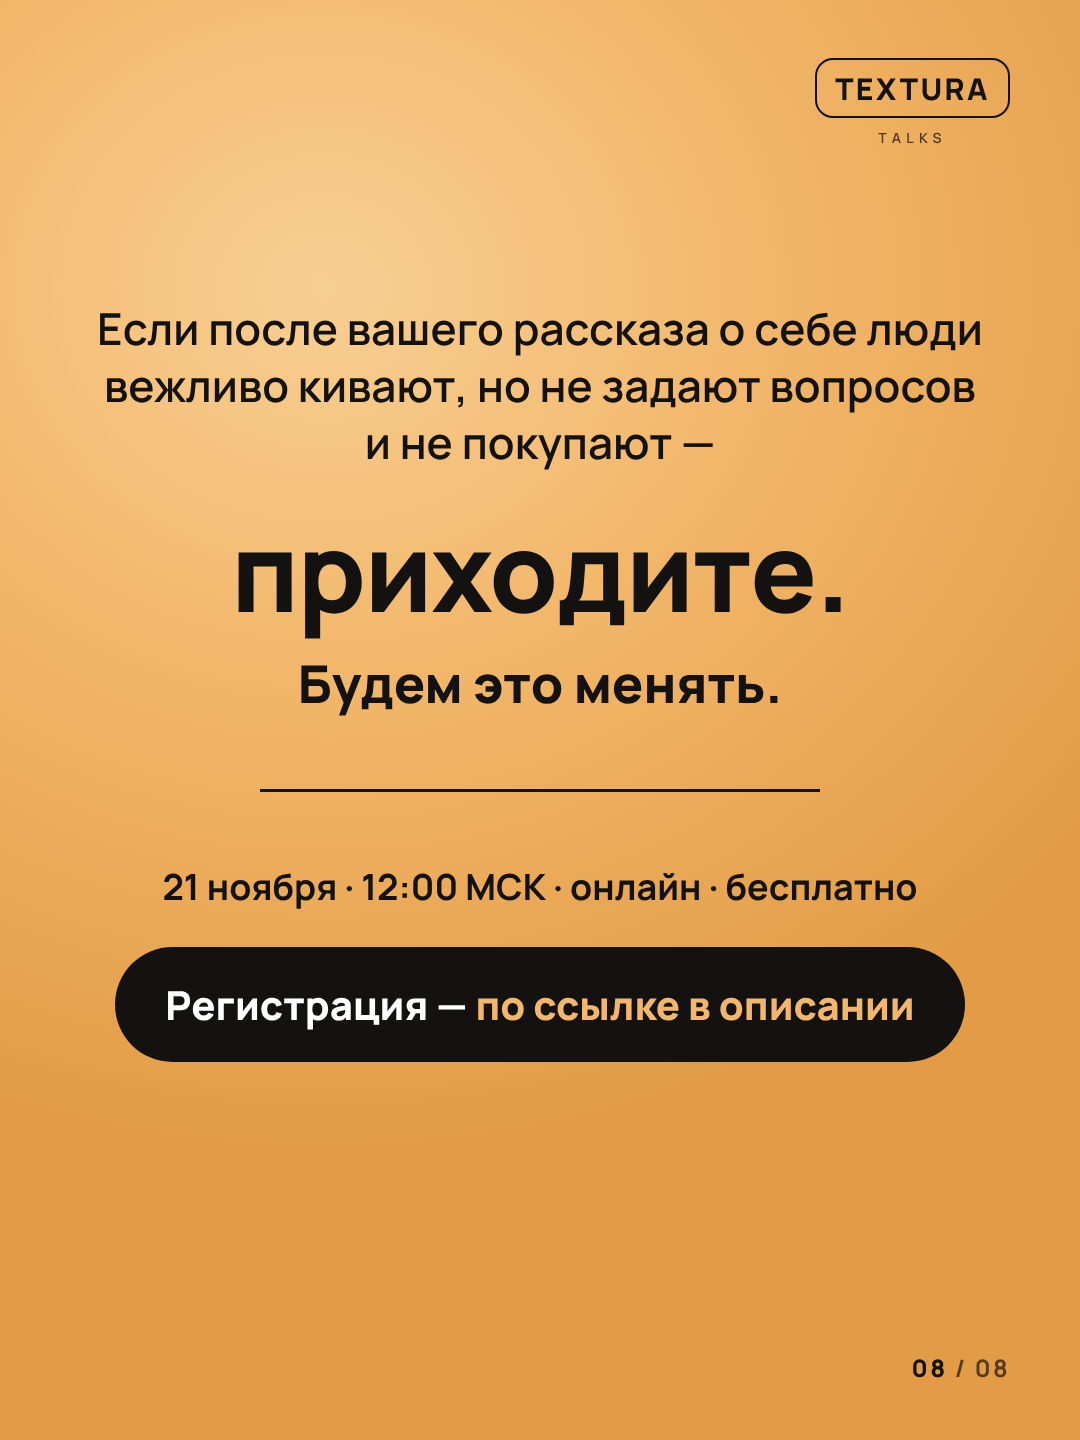
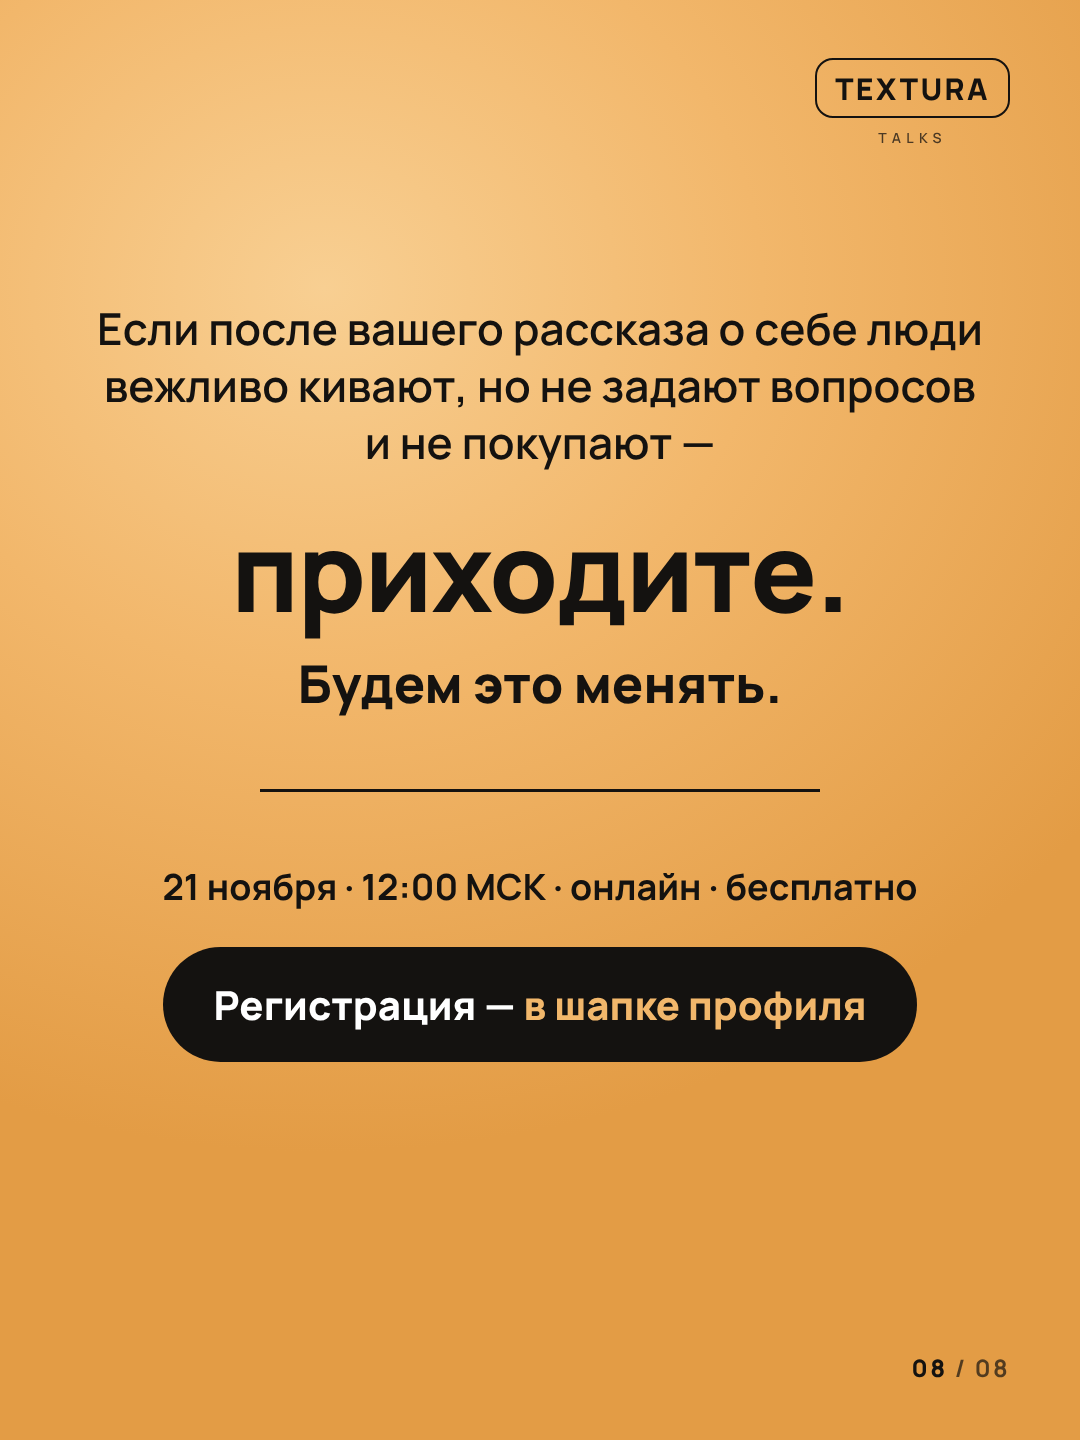
Workshop carousel: registration via profile link
Claude-Session: https://claude.ai/code/session_01EUhV7va23MNh7ydDpeuyX7

Changed region(s): [[0.0917, 0.6562, 0.5806, 0.75], [0.6417, 0.6562, 0.9167, 0.75]]

diff --git a/textura-carousel/workshop.html b/textura-carousel/workshop.html
@@ -169,6 +169,6 @@
 <p style="font-weight:800; font-size:52px; margin-top:20px;">Будем это менять.</p>
 <div style="width:560px; height:3px; background:#141210; margin:70px auto;"></div>
 <p style="font-weight:700; font-size:36px;">21 ноября · 12:00 МСК · онлайн · бесплатно</p>
-<div style="margin-top:36px; display:inline-block; white-space:nowrap; background:#141210; color:#fff; border-radius:80px; padding:30px 50px; font-weight:800; font-size:40px;">Регистрация — <span style="color:var(--accent);">по ссылке в описании</span></div>
+<div style="margin-top:36px; display:inline-block; white-space:nowrap; background:#141210; color:#fff; border-radius:80px; padding:30px 50px; font-weight:800; font-size:40px;">Регистрация — <span style="color:var(--accent);">в шапке профиля</span></div>
 </div><div class="counter"><b>08</b> / 08</div></section>
 </body></html>
